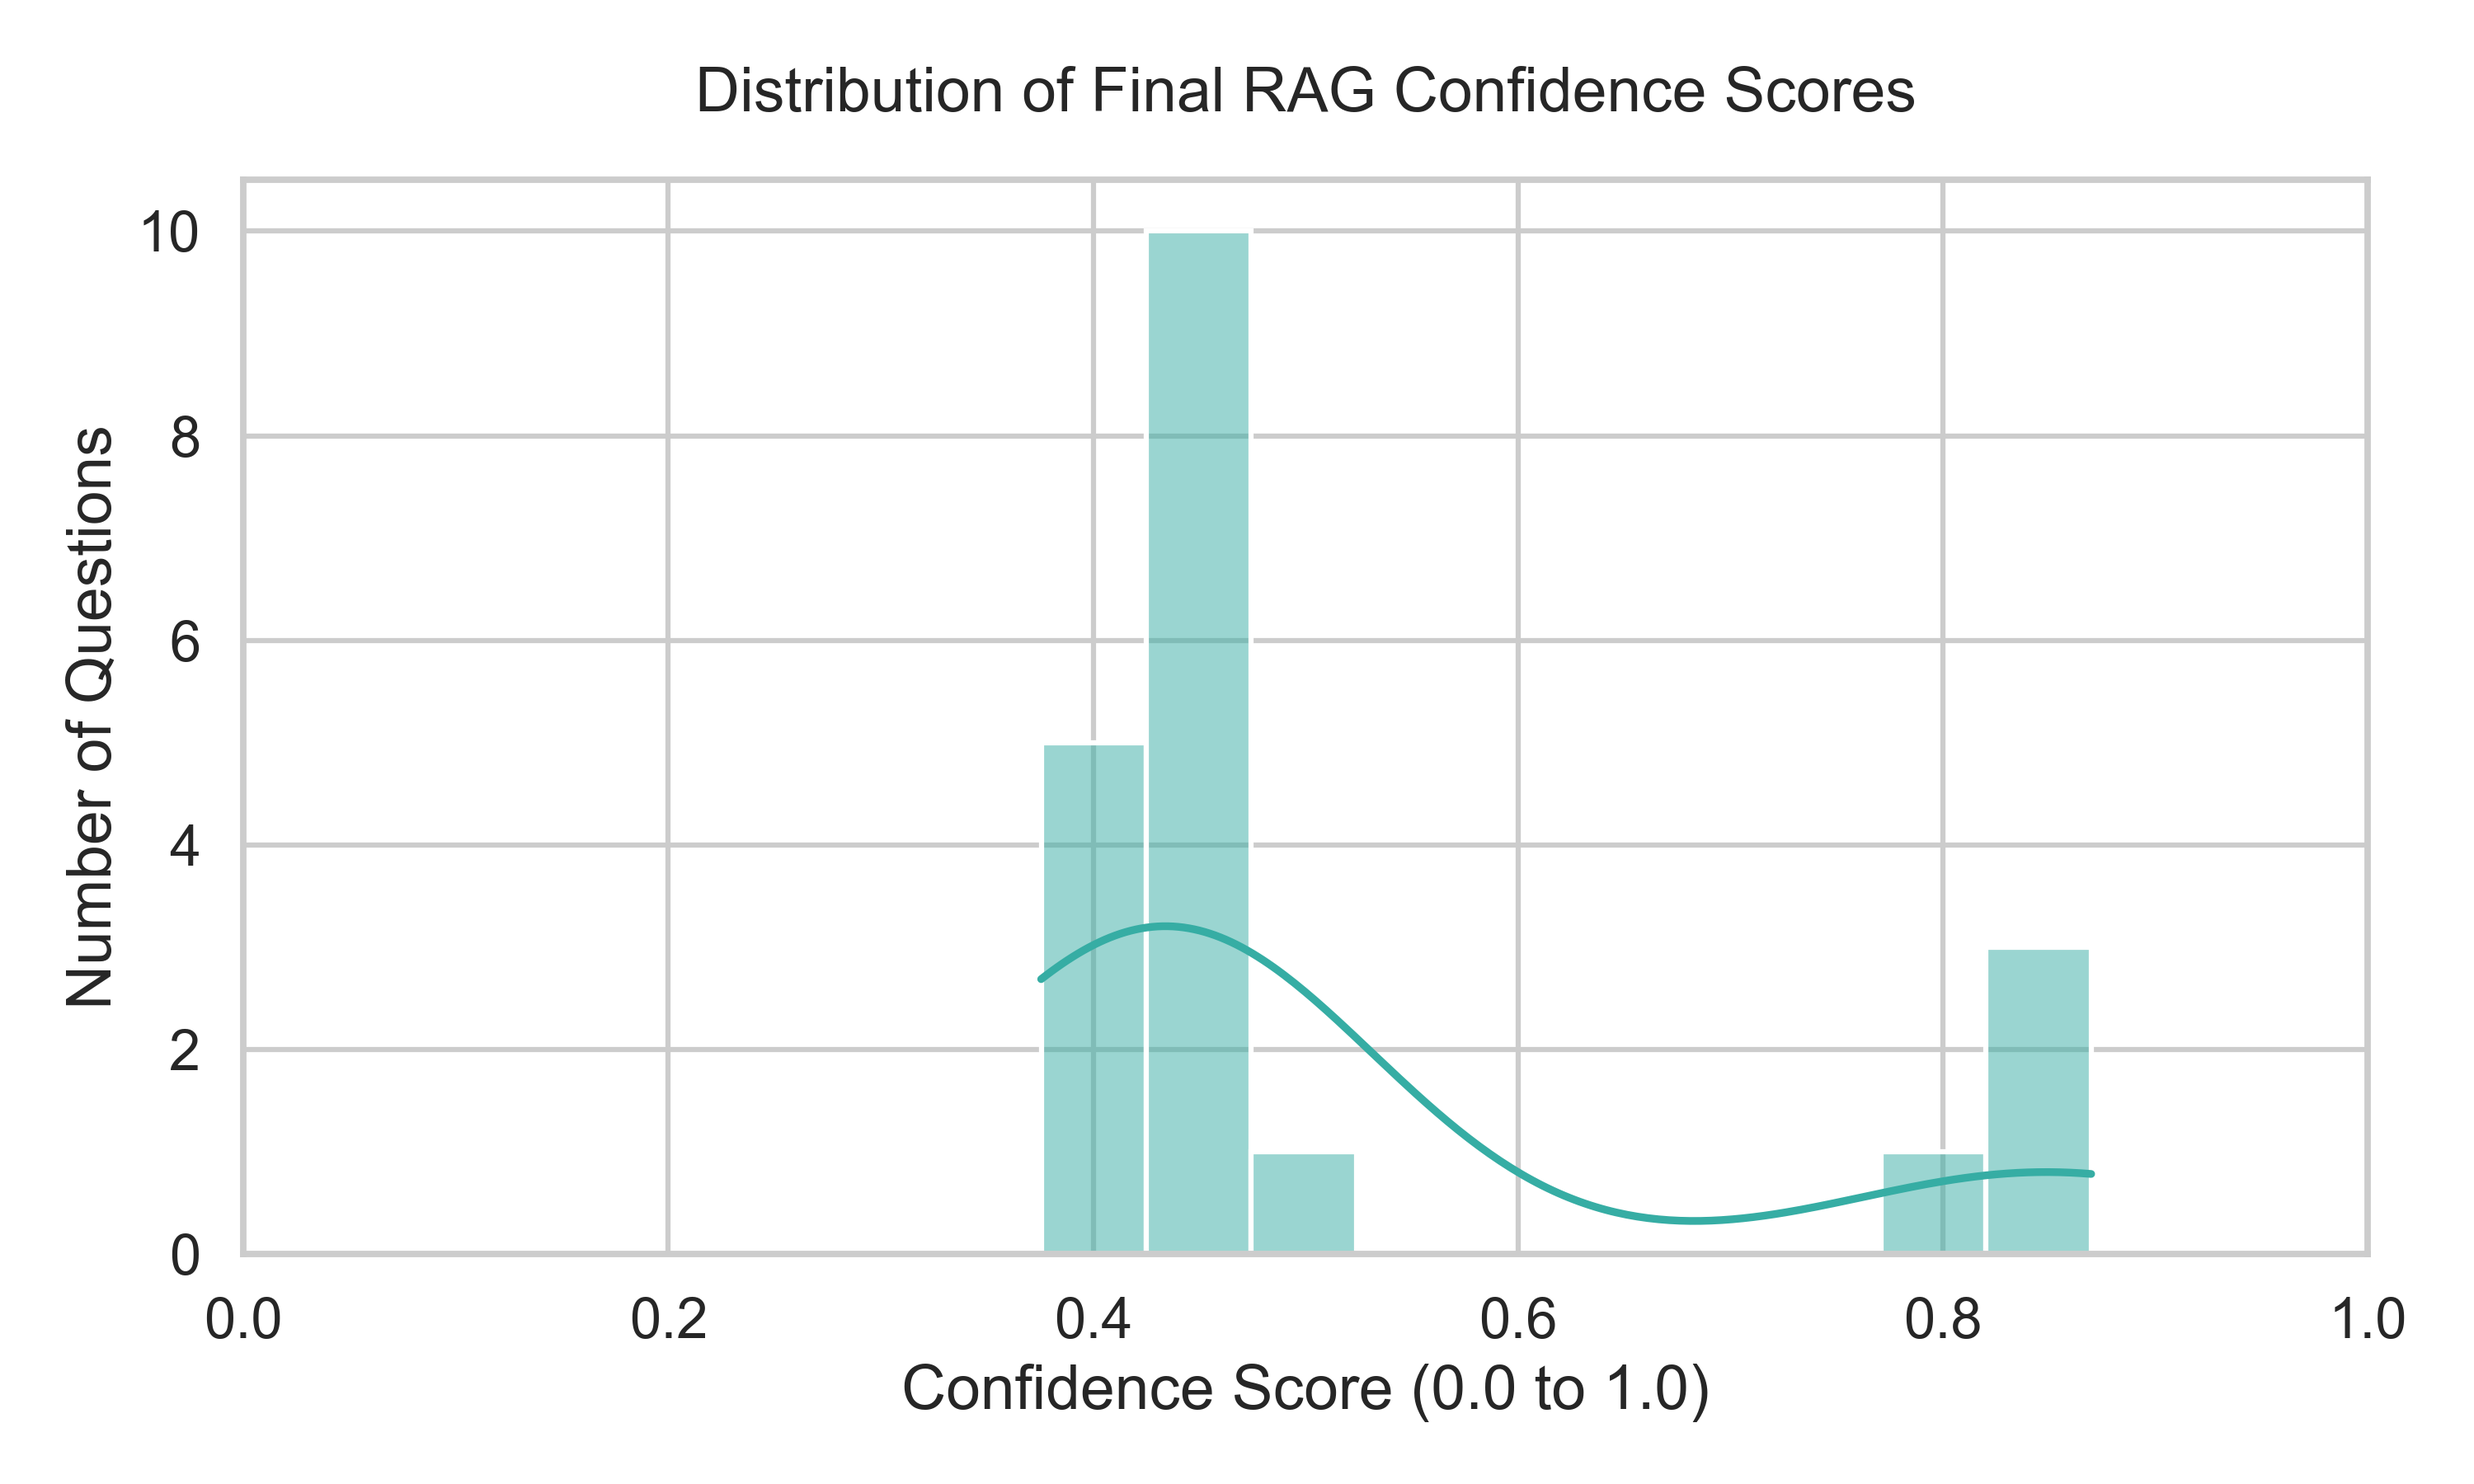
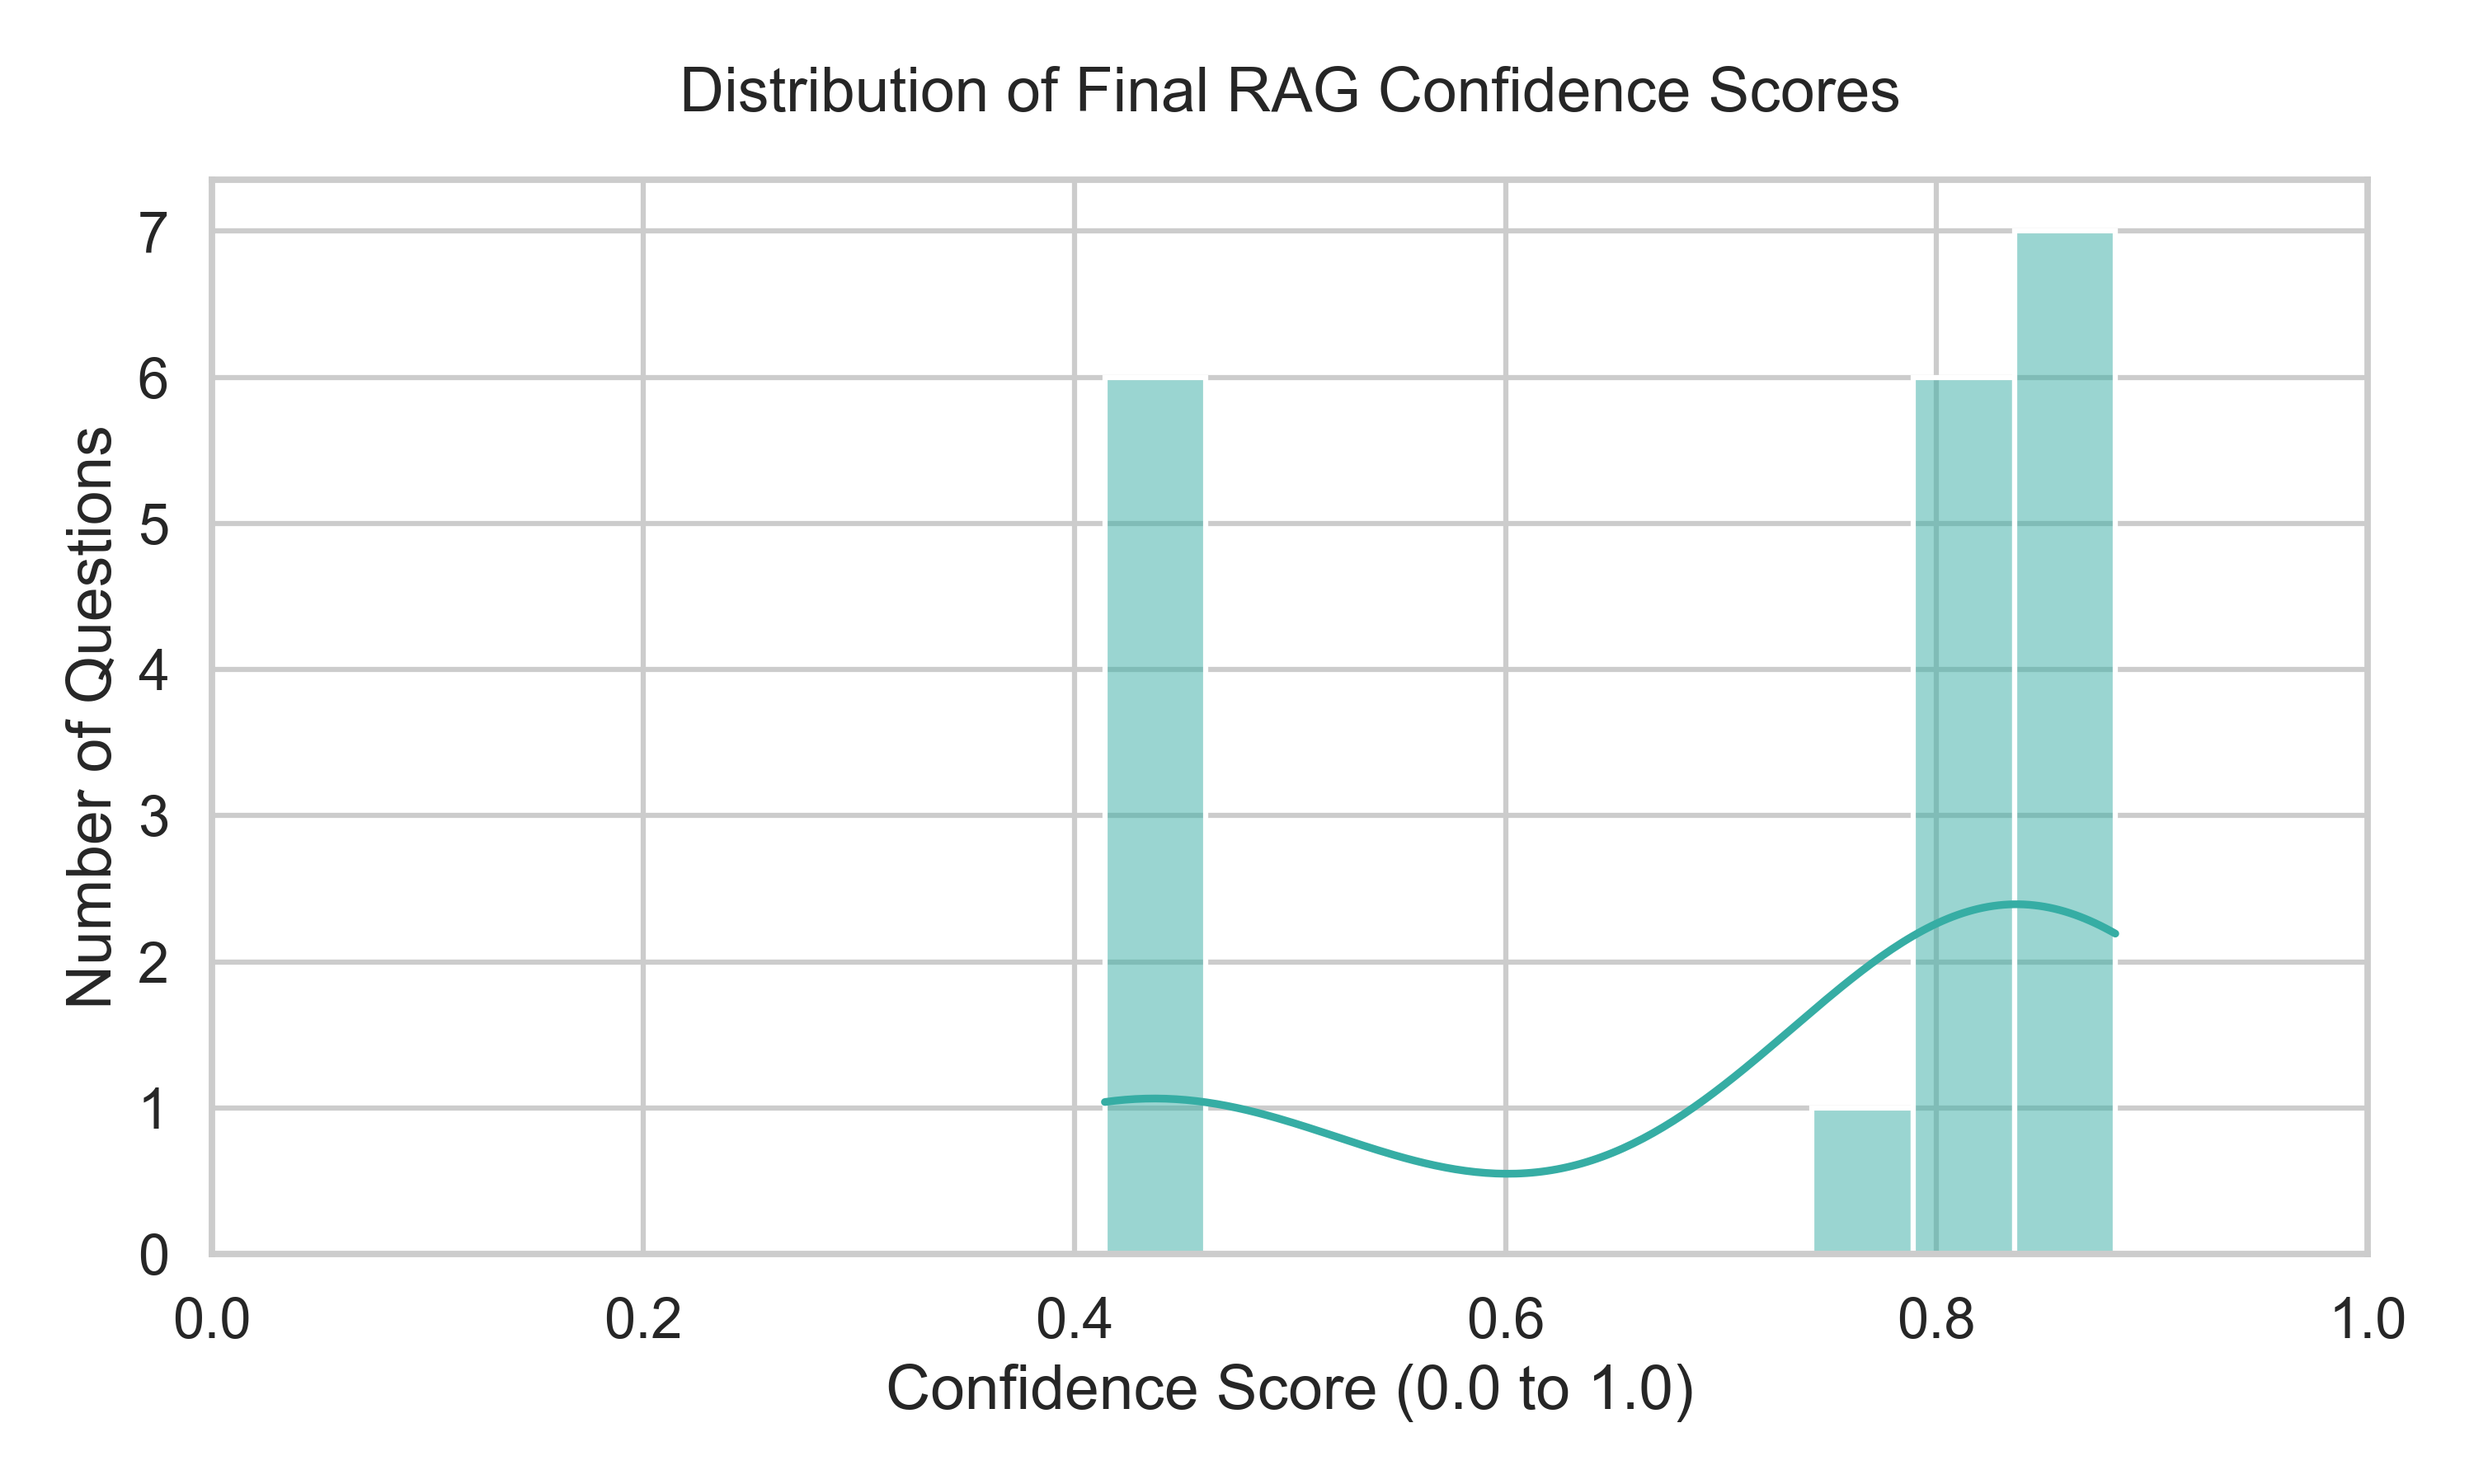
NLI verifier , top 5 chunks

diff --git a/rag/nli_verifier.py b/rag/nli_verifier.py
@@ -19,28 +19,31 @@ def verify_answer_nli(answer: str, chunks: list[dict]) -> dict:
         
     model = get_nli_model()
     
-    # Combine the top 2 chunks as the "Premise" (limits token length to ~512)
-    top_chunks = chunks[:2]
-    premise = " ".join([c.get("text_content", "") for c in top_chunks])
+    # Loop through top 5 chunks to see if ANY chunk successfully entails the answer.
+    # This prevents the 512 token limit from hiding evidence located in chunk 3 or 4.
+    best_entailment = -999.0
+    best_scores = [0, 0, 0]
     
-    # Predict takes a list of pairs: [(Premise, Hypothesis)]
-    scores = model.predict([(premise, answer)])[0]
+    for c in chunks[:5]:
+        premise = c.get("text_content", "")
+        if not premise: continue
+        
+        # Predict pair
+        scores = model.predict([(premise, answer)])[0]
+        entailment_score = scores[1]
+        
+        if entailment_score > best_entailment:
+            best_entailment = entailment_score
+            best_scores = scores
+            
+    contradiction = best_scores[0]
+    entailment    = best_scores[1]
+    neutral       = best_scores[2]
     
-    # For 'cross-encoder/nli-distilroberta-base':
-    # scores[0] = Contradiction
-    # scores[1] = Entailment
-    # scores[2] = Neutral
-    
-    contradiction = scores[0]
-    entailment    = scores[1]
-    neutral       = scores[2]
-    
-    # A simple deterministic gate:
-    # If entailment is stronger than contradiction, it's considered verified.
-    # Optionally, we could require entailment > neutral, but often 'neutral' is high if the answer is short.
+    # Simple deterministic gate: Entailment vs Contradiction
     verified = bool(entailment > contradiction)
     
-    explanation = f"NLI Scores -> Entailment: {entailment:.2f} | Contradiction: {contradiction:.2f} | Neutral: {neutral:.2f}"
+    explanation = f"NLI Max Scores -> Entailment: {entailment:.2f} | Contradiction: {contradiction:.2f} | Neutral: {neutral:.2f}"
     
     return {
         "verified": verified,
